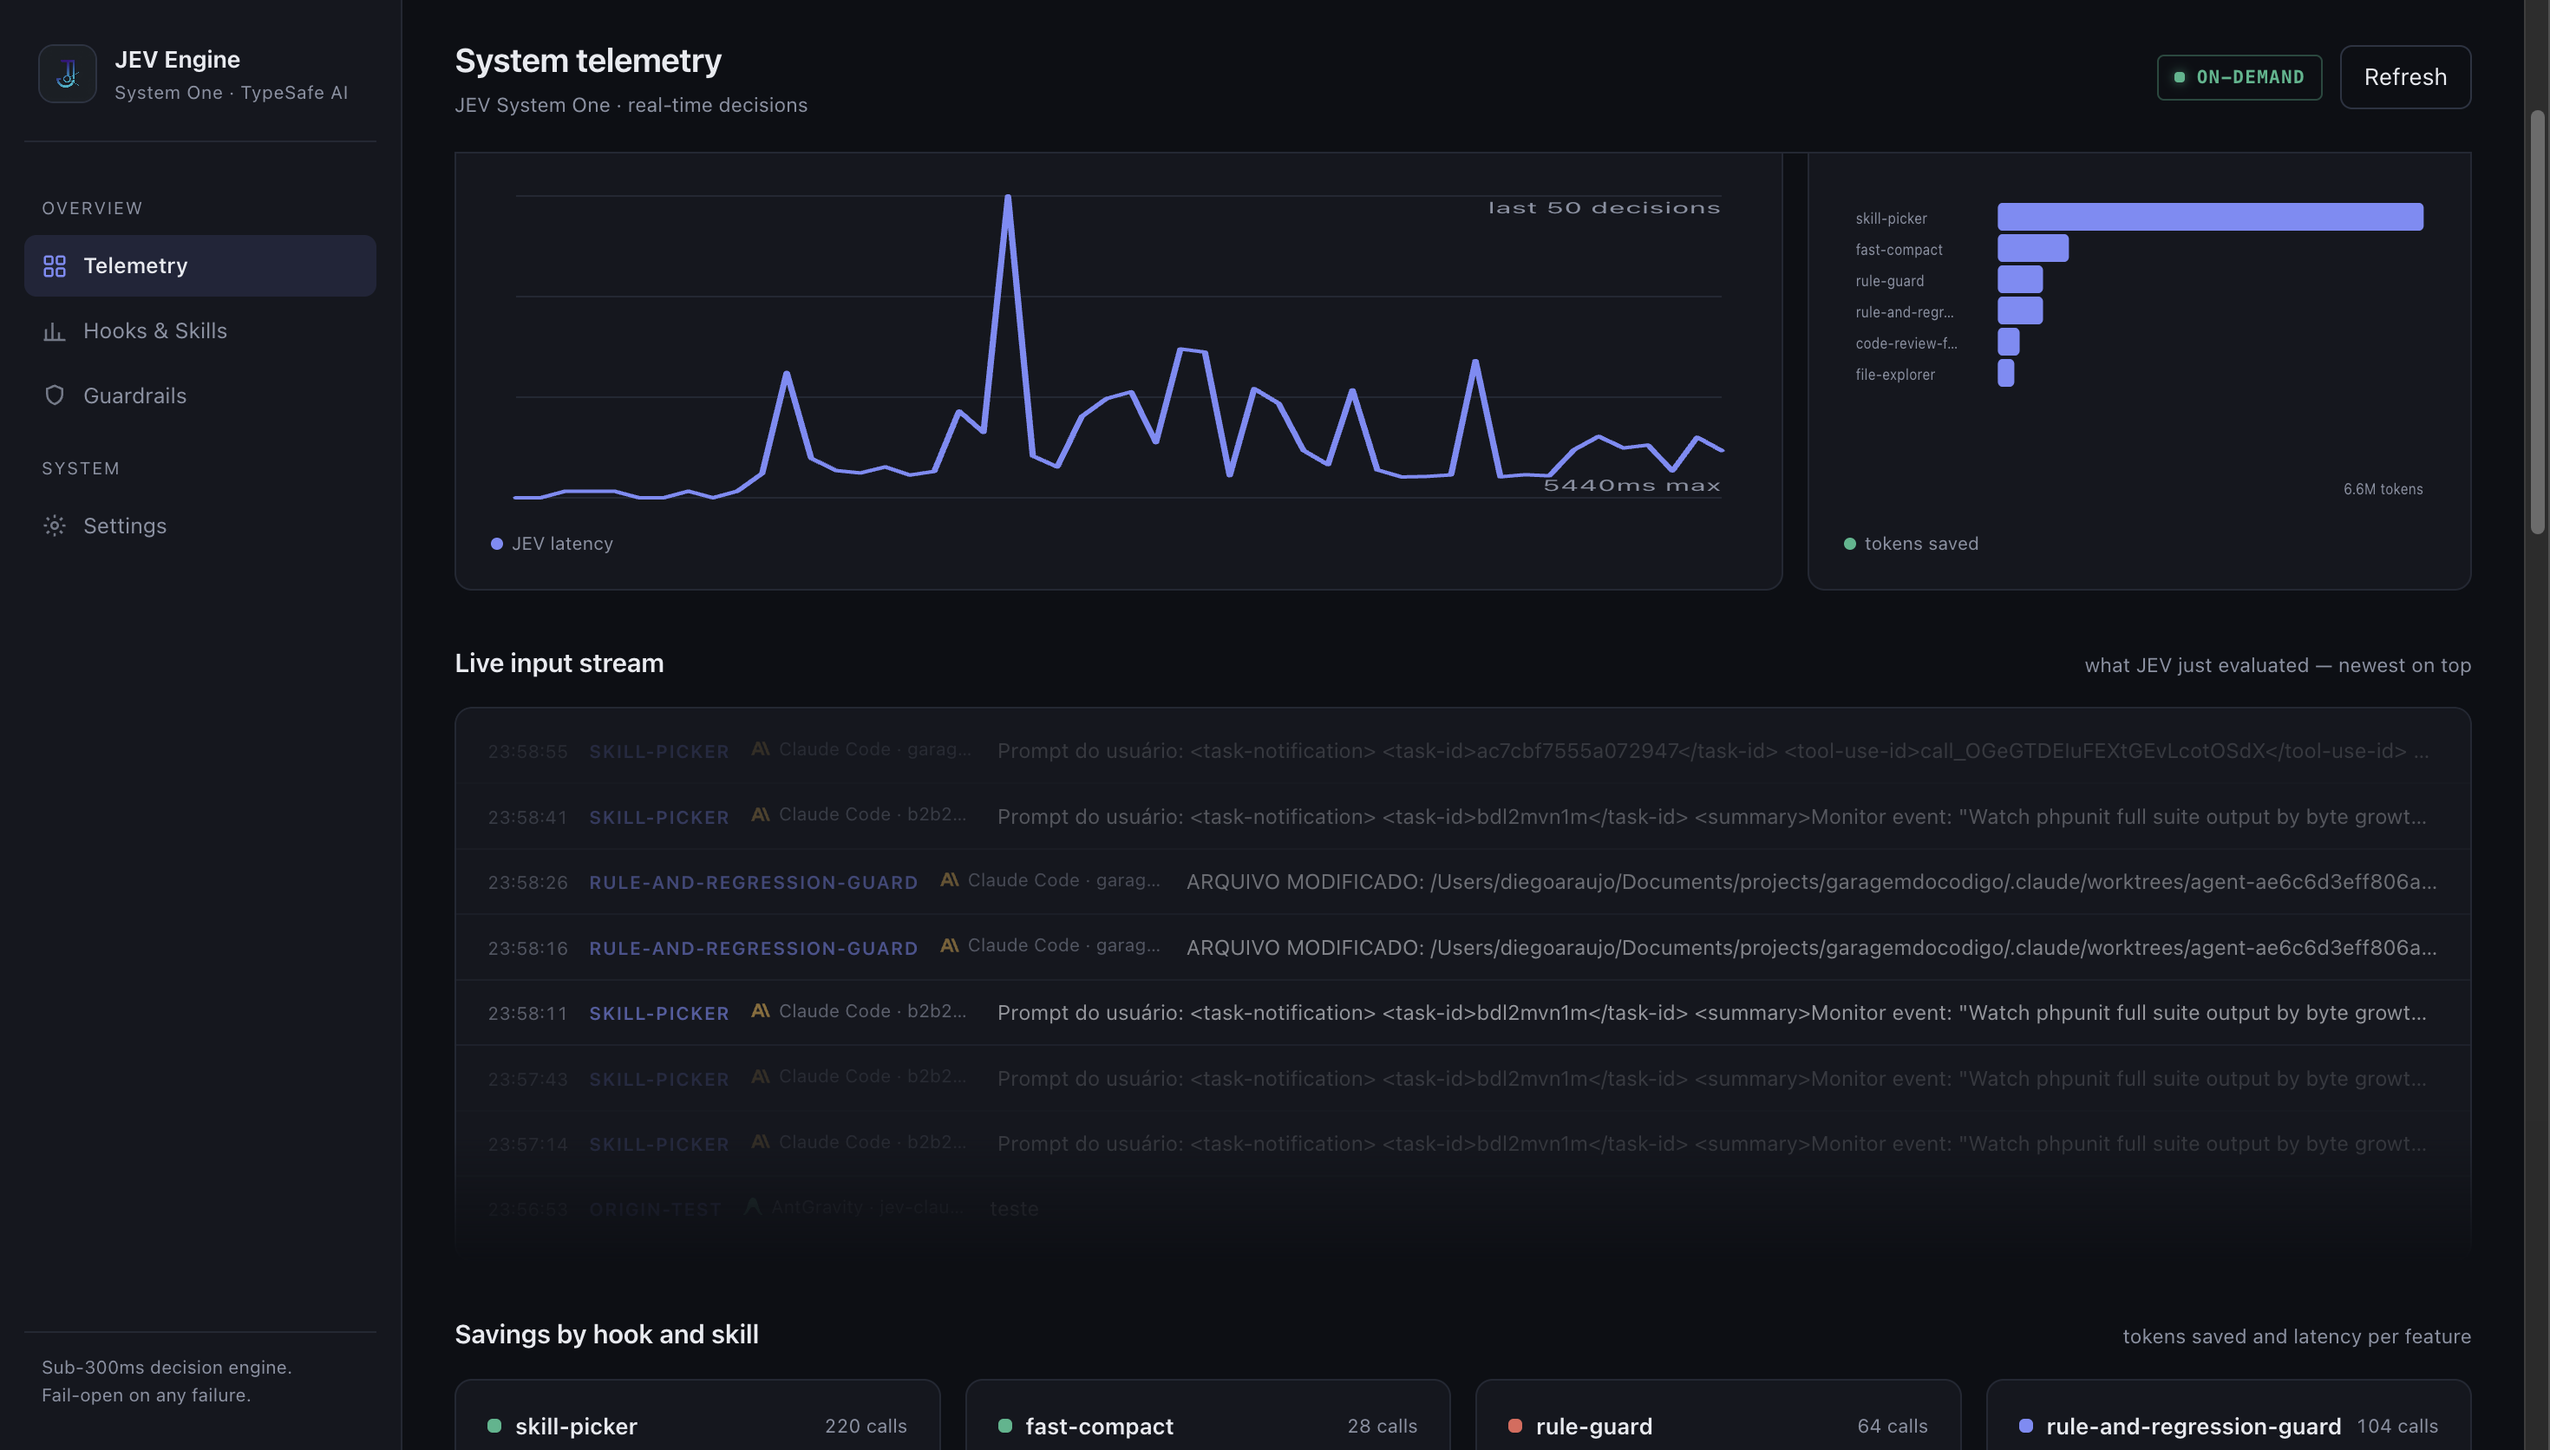
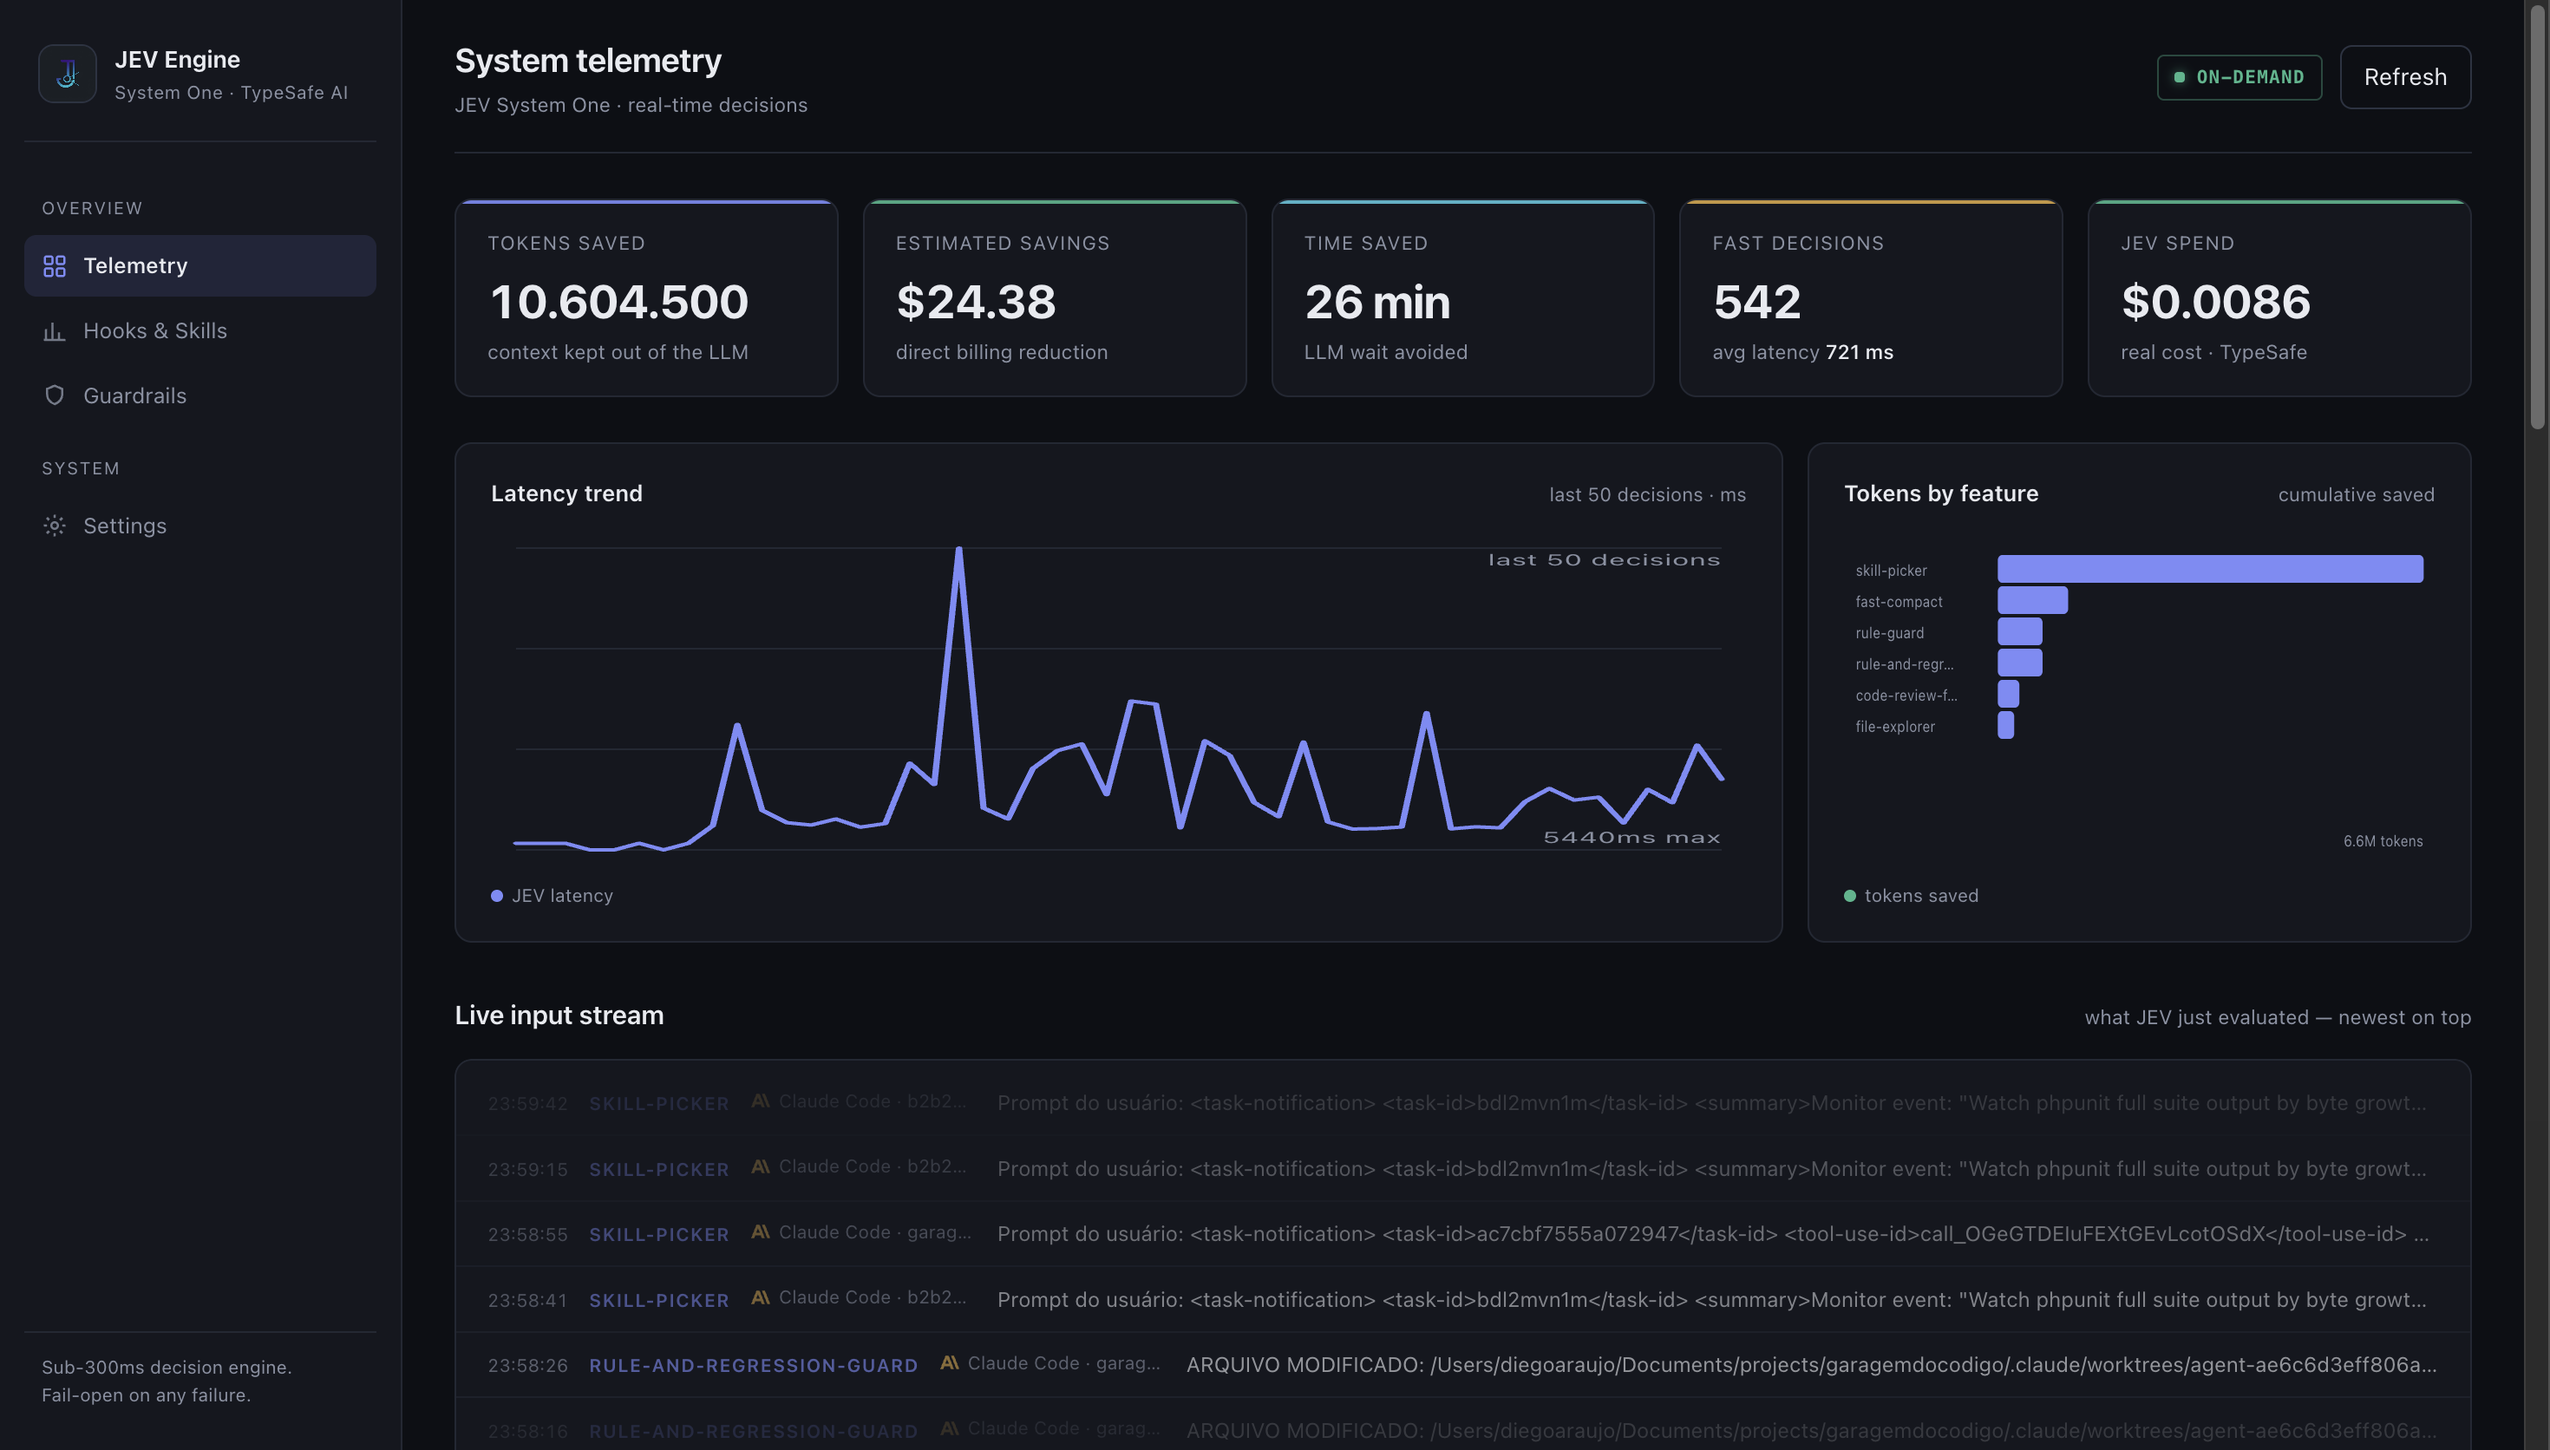
feat(dashboard): tooltip on stream origin shows full project path
Hovering an agent origin reveals the full project path (title attr),
while the visible label stays compact.

diff --git a/src/dashboard.js b/src/dashboard.js
@@ -579,6 +579,9 @@ export function createDashboardHtml(initialData, projectDir) {
         { '&': '&amp;', '<': '&lt;', '>': '&gt;', '"': '&quot;', "'": '&#39;' }[c]
       ));
     }
+    function escapeAttr(s) {
+      return escapeHtml(String(s || ''));
+    }
     // --- per-agent SVG marks (real brand shapes, colors follow dashboard tokens) ---
     const AGENT_SVGS = {
       // OpenCode (anomalyco) — stepped O
@@ -602,7 +605,8 @@ export function createDashboardHtml(initialData, projectDir) {
     function originLabel(e) {
       const agent = e.origin_agent || 'unknown';
       const proj = projectShort(e.origin_project);
-      return agentSvg(agent) + '<span>' + escapeHtml(agentLabel(agent)) + (proj ? ' · ' + escapeHtml(proj) : '') + '</span>';
+      const full = e.origin_project ? String(e.origin_project) : '';
+      return agentSvg(agent) + '<span title="' + escapeAttr(agentLabel(agent) + (full ? ' · ' + full : '')) + '">' + escapeHtml(agentLabel(agent)) + (proj ? ' · ' + escapeHtml(proj) : '') + '</span>';
     }
 function projectShort(p) {
       if (!p) return '';
